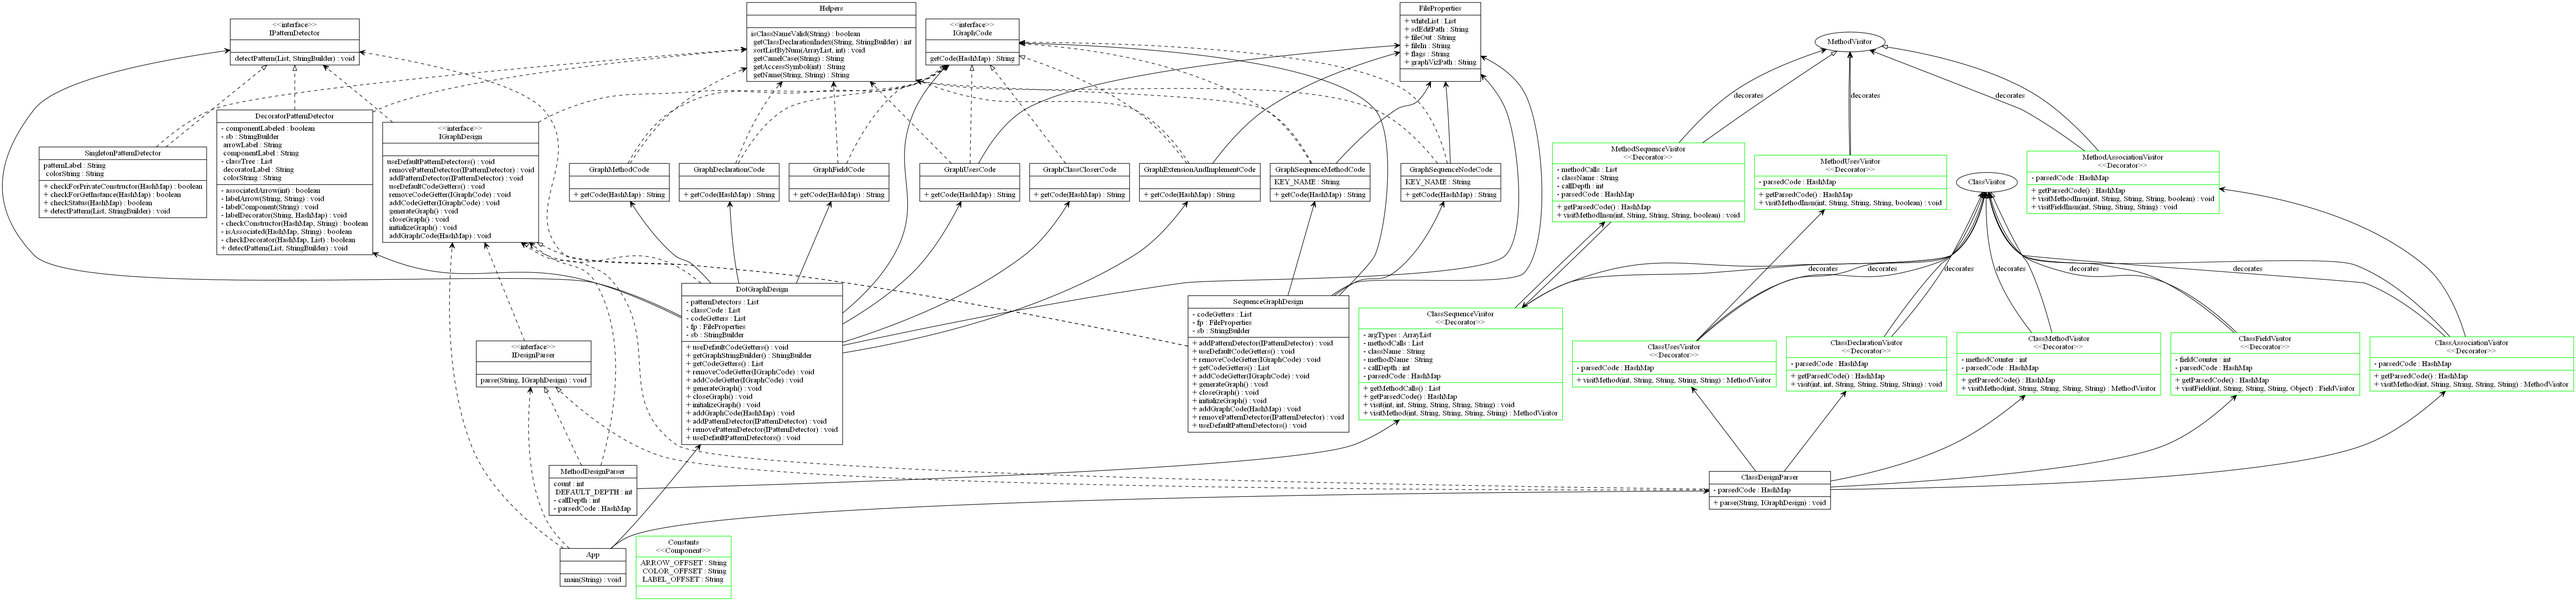
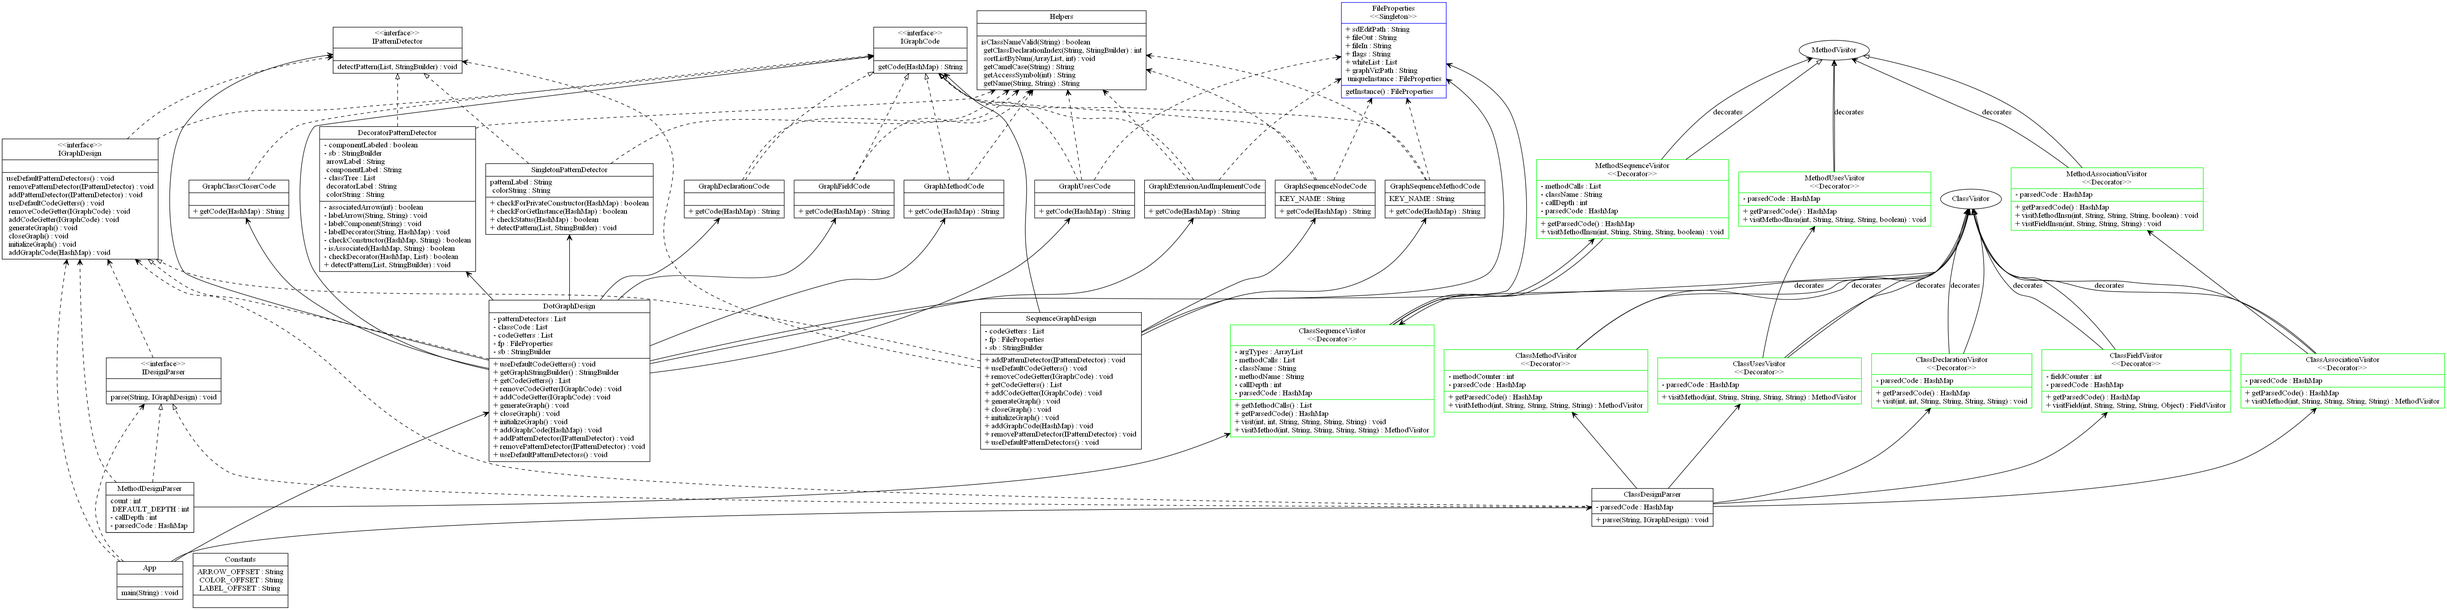
Updated README, changed FileProperties to a Singleton

diff --git a/src/problem/patterns/DecoratorPatternDetector.java b/src/problem/patterns/DecoratorPatternDetector.java
@@ -123,24 +123,6 @@ public class DecoratorPatternDetector implements IPatternDetector {
 		return false;
 	}
 
-//	private boolean checkField(HashMap<String, String> code, String otherClass) {
-//		System.out.println("otherClass in checkField: " + otherClass);
-//		String otherClassName = Helpers.getName(otherClass, "/");
-//		for (String s : code.keySet()) {
-//			if (s.contains("field")) {
-//				String field = code.get(s);
-//				String[] fieldProperties = field.split(":");
-//				String type = Helpers.getName(fieldProperties[2], "\\.");
-//				System.out.println("type: " + type);
-//				if (type.equals(otherClassName)) {
-//					return true;
-//				}
-//			}
-//		}
-//
-//		return false;
-//	}
-
 	private void labelDecorator(String className, HashMap<String, String> code) {
 		// given a className, finds that class and labels it as a decorator
 		if (code.get("decorator") != null) {
@@ -173,6 +155,8 @@ public class DecoratorPatternDetector implements IPatternDetector {
 			if (classIndex == -1) {
 				return;
 			}
+			System.out.println(className);
+			System.out.println(sb.substring(classIndex - 20, classIndex + 20));
 			int colorOffset = this.sb.indexOf(Constants.COLOR_OFFSET,
 					classIndex);
 			this.sb.replace(colorOffset,

diff --git a/src/problem/DotGraphDesign.java b/src/problem/DotGraphDesign.java
@@ -21,7 +21,7 @@ import problem.patterns.SingletonPatternDetector;
 
 public class DotGraphDesign implements IGraphDesign {
 	private StringBuilder sb = new StringBuilder();
-	private FileProperties fp = new FileProperties();
+	private FileProperties fp = FileProperties.getInstance();
 	private List<IGraphCode> codeGetters = new ArrayList<IGraphCode>();
 	private List<HashMap<String, String>> classCode = new ArrayList<>();
 	private List<IPatternDetector> patternDetectors = new ArrayList<IPatternDetector>();
@@ -119,7 +119,7 @@ public class DotGraphDesign implements IGraphDesign {
 
 	@Override
 	public void useDefaultPatternDetectors() {
-//		addPatternDetector(new SingletonPatternDetector());
+		addPatternDetector(new SingletonPatternDetector());
 		addPatternDetector(new DecoratorPatternDetector());
 	}
 

diff --git a/src/problem/FileProperties.java b/src/problem/FileProperties.java
@@ -6,6 +6,7 @@ import java.util.ArrayList;
 import java.util.List;
 
 public class FileProperties {
+	private static FileProperties uniqueInstance;
 	public String graphVizPath = "";
 	public String flags = "";
 	public String fileIn = "";
@@ -13,7 +14,14 @@ public class FileProperties {
 	public String sdEditPath = "";
 	public List<String> whiteList = new ArrayList<String>();
 	
-	public FileProperties() {
+	public static FileProperties getInstance() {
+		if (uniqueInstance == null) {
+			uniqueInstance = new FileProperties();
+		}
+		return uniqueInstance;
+	}
+	
+	private FileProperties() {
 		// Read in properties
 		try (BufferedReader br = new BufferedReader(new FileReader(
 				"./input_output/properties.txt"))) {

diff --git a/src/problem/Helpers.java b/src/problem/Helpers.java
@@ -57,8 +57,7 @@ public class Helpers {
 		int fromIndex = 0;
 		int declarationIndex;
 		while ((declarationIndex = sb.indexOf(className, fromIndex)) != -1) {
-			if (!sb.substring(declarationIndex - 3, declarationIndex - 1).equals("->")
-					&& !sb.substring(declarationIndex - 2, declarationIndex - 1).equals(":")) {
+			if (sb.substring(declarationIndex - 1, declarationIndex).equals(";")) {
 				return declarationIndex;
 			}
 			fromIndex = declarationIndex + 1;

diff --git a/src/problem/code/GraphUsesCode.java b/src/problem/code/GraphUsesCode.java
@@ -18,7 +18,7 @@ public class GraphUsesCode implements IGraphCode {
 	@Override
 	public String getCode(HashMap<String, String> items) {
 		StringBuilder sb = new StringBuilder();
-		FileProperties fp = new FileProperties();
+		FileProperties fp = FileProperties.getInstance();
 		List<String> usesList = new ArrayList<String>();
 		String name = Helpers.getName(items.get("className"), "/");
 		for (String s : items.keySet()) {

diff --git a/src/problem/code/GraphExtensionAndImplementCode.java b/src/problem/code/GraphExtensionAndImplementCode.java
@@ -15,7 +15,7 @@ public class GraphExtensionAndImplementCode implements IGraphCode {
 	@Override
 	public String getCode(HashMap<String, String> items) {
 		StringBuilder sb = new StringBuilder();
-		FileProperties fp = new FileProperties();
+		FileProperties fp = FileProperties.getInstance();
 		
 		String name = Helpers.getName(items.get("className"), "/");
 		String superName = Helpers.getName(items.get("extends"), "/");

diff --git a/src/problem/code/GraphSequenceNodeCode.java b/src/problem/code/GraphSequenceNodeCode.java
@@ -17,7 +17,7 @@ public class GraphSequenceNodeCode implements IGraphCode {
 	@Override
 	public String getCode(HashMap<String, String> items) {
 		StringBuilder sb = new StringBuilder();
-		FileProperties fp = new FileProperties();
+		FileProperties fp = FileProperties.getInstance();
 		ArrayList<String> nodeNames = new ArrayList<>();
 		ArrayList<String> usedNodes = new ArrayList<>();
 		

diff --git a/src/problem/code/GraphSequenceMethodCode.java b/src/problem/code/GraphSequenceMethodCode.java
@@ -17,7 +17,7 @@ public class GraphSequenceMethodCode implements IGraphCode {
 	@Override
 	public String getCode(HashMap<String, String> items) {
 		StringBuilder sb = new StringBuilder();
-		FileProperties fp = new FileProperties();
+		FileProperties fp = FileProperties.getInstance();
 		ArrayList<String> methodKeys = new ArrayList<>();
 
 		for (String s : items.keySet()) {

diff --git a/src/problem/SequenceGraphDesign.java b/src/problem/SequenceGraphDesign.java
@@ -15,7 +15,7 @@ import problem.code.GraphSequenceNodeCode;
 
 public class SequenceGraphDesign implements IGraphDesign {
 	private StringBuilder sb = new StringBuilder();
-	private FileProperties fp = new FileProperties();
+	private FileProperties fp = FileProperties.getInstance();
 	private List<IGraphCode> codeGetters = new ArrayList<IGraphCode>();
 
 	@Override

diff --git a/README.md b/README.md
@@ -33,7 +33,9 @@ M4: Our overall design did not undergo many changes during this milestone. Abstr
 M5: The design of our tool changed a fair amount to solve the issue of handling patterns that involved multiple classes. Our 
 	solution was to push all pattern detection until after the GraphViz code had been generated, sending a list of each class's parsedCode.
 	To handle adding to the StringBuilder after the fact, we use our own special syntax within the code in order to inject proper
-	labels and colors into the generated code.
+	labels and colors into the generated code. Constants.java holds all of the special syntax tags used, and any new tags will be
+	added here. Lastly, FileProperties was transformed into a Singleton to ensure there was no difference in the properties found
+	between our classes that require those properties.
 		
 
 ### CONTRIBUTORS ###
@@ -101,6 +103,9 @@ M5: Implemented Decorator detector.
 	MethodDesignParser, respectively. The <Key, Value> pairs that should be expected in this implementation are defined in MORE INFO.
 	Lastly, this implementation will not generate a PNG file. Rather, it will only generate a code file specified in fileIn of
 	properties.txt. fileIn should have the extension ".sd".
+	
+	In Milestone 5, DotGraphDesign must have IPatternDetectors registered, much like IGraphCode. Calling useDefaultPatternDetectors()
+	will use all of our default implementations of IPatternDetector. 
 	
 
 ### MORE INFO ###
